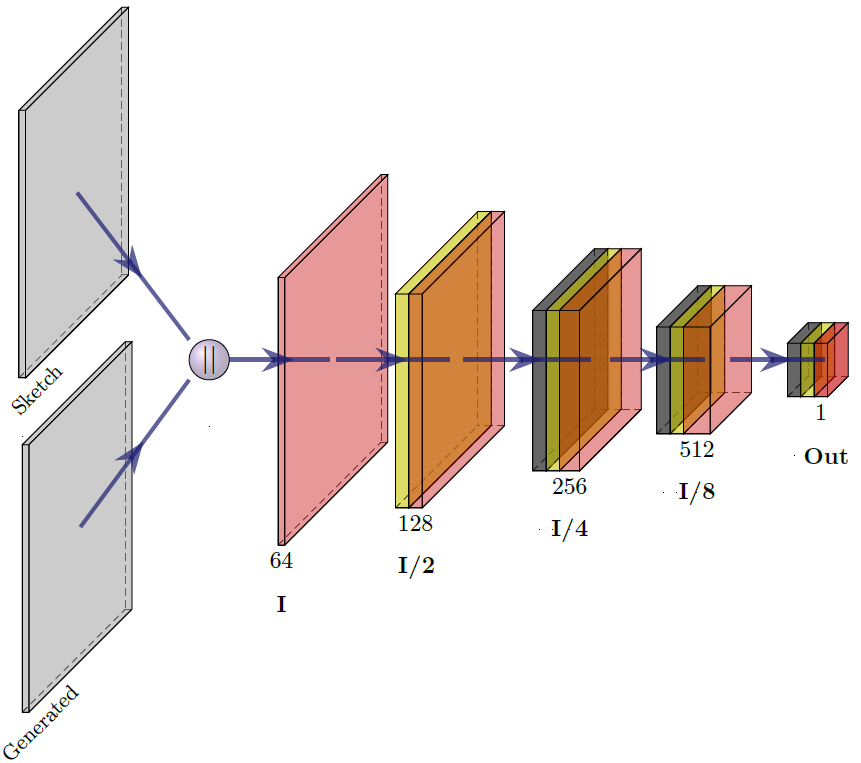
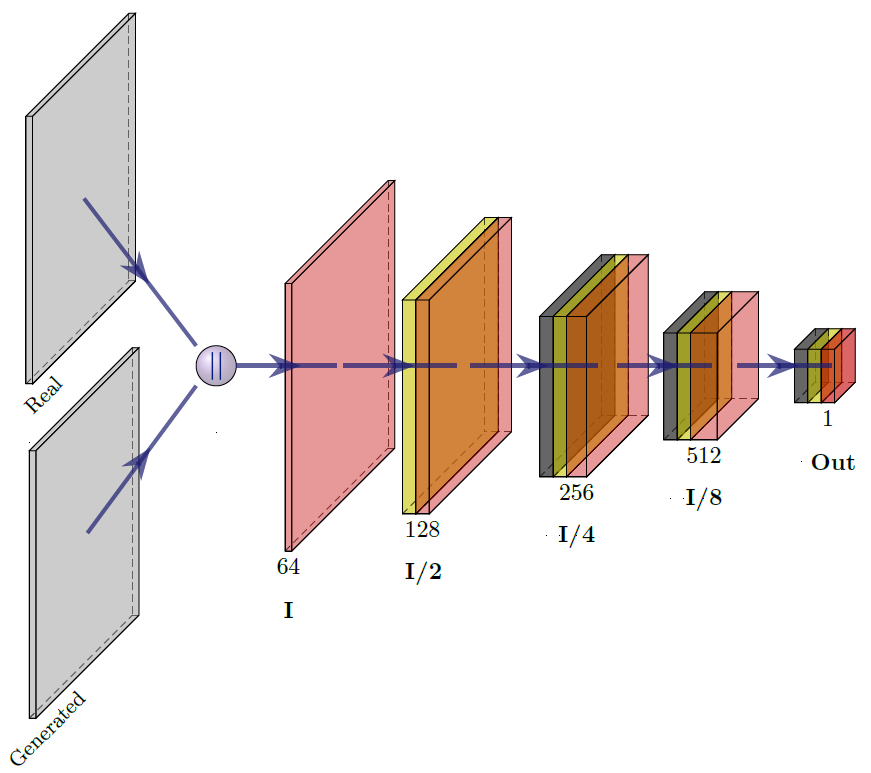
Fixed typo in discriminator LaTeX visualization.

diff --git a/visualizations/model_architecture/model_visualizations/discriminator.tex b/visualizations/model_architecture/model_visualizations/discriminator.tex
@@ -27,7 +27,7 @@
 %%%%%%%%%%%%%%%%%%%%%%%%%%%%%%%%%%%%%%%%%%%%%%%%%%%%%%%%%%%%%%%%%%%%%%%%%%%%%%%%%%%%%%%%
 % Input Boxes
 \pic[shift={(0,0,0)}] at (0,0,0) {Box={name=input1,%
-        xlabel={{"",}},zlabel={Sketch},fill=\InputColor,%
+        xlabel={{"",}},zlabel={Real},fill=\InputColor,%
         height=20,width={0.5},depth=20}};
 \pic[shift={(0,-3,0)}] at (input1-south) {Box={name=input2,%
         xlabel={{"",}},zlabel={Generated},fill=\InputColor,%
